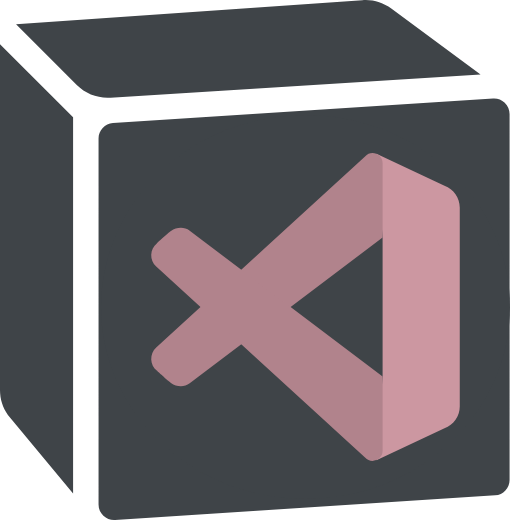
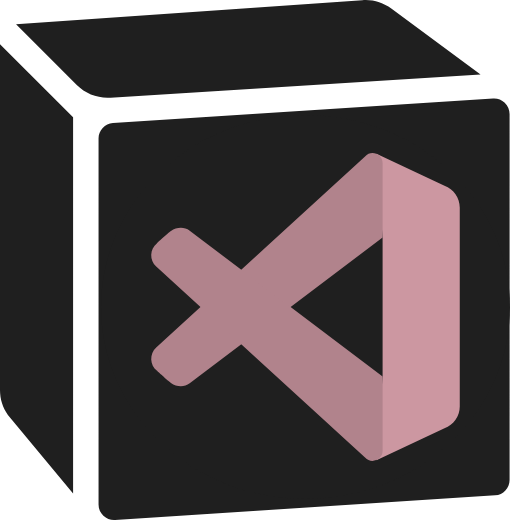
Updated Colors
Notion's New Dark Mode Palette

diff --git a/CHANGELOG.md b/CHANGELOG.md
@@ -5,3 +5,7 @@ All notable changes to the Notion Theme (Dark) extension will be documented in t
 ## 1.0.0 (December 25, 2021)
 
 - 🎄 Initial release 🎄 (Improvements to be made)
+
+## 1.0.3 (February 23, 2022)
+
+- Updated colors to match Notion's [new dark mode palette](https://twitter.com/NotionHQ/status/1496213386857754625?s=20&t=SQTTX4zsPp_kc_ikBGsgLg)
